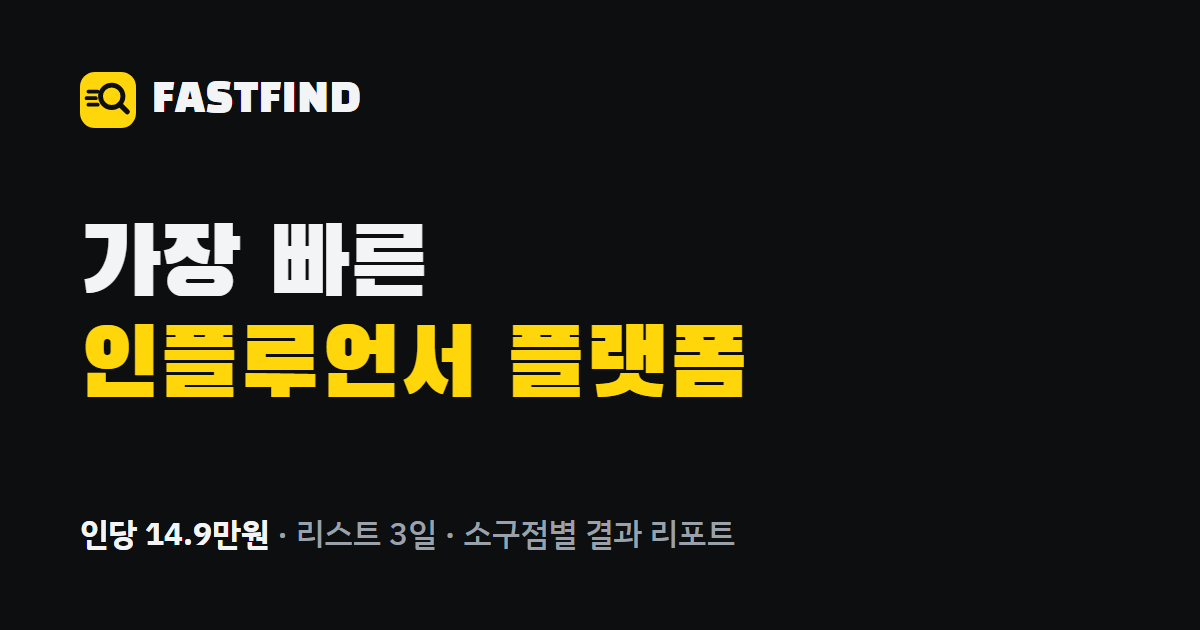
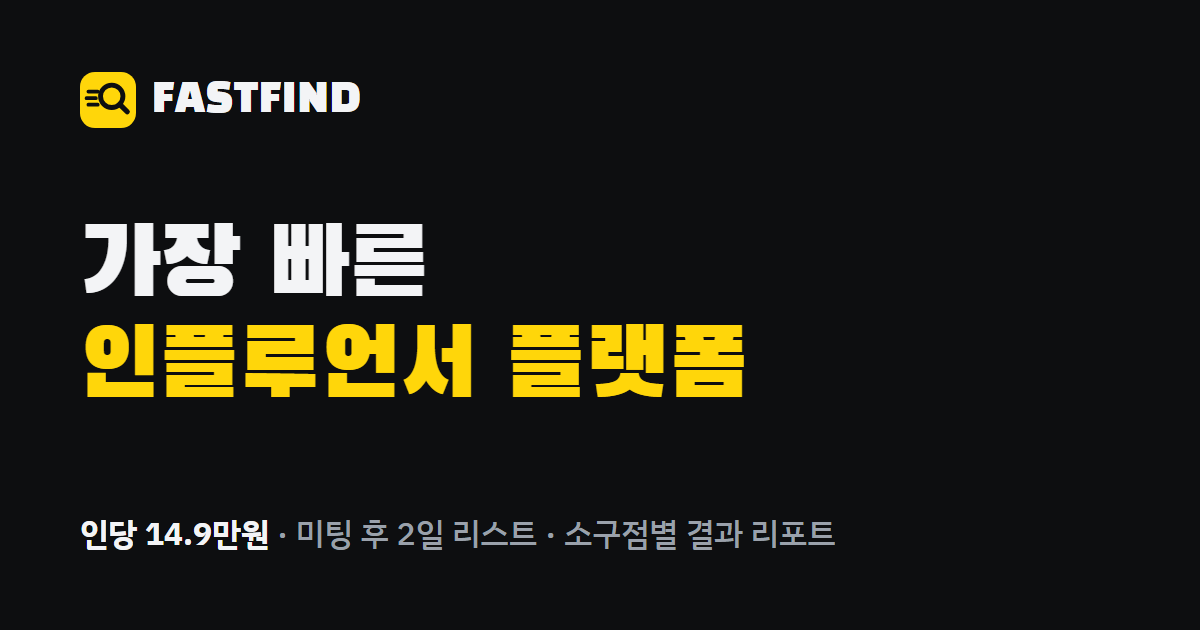
일정 변경: 화상 미팅 후 2일 리스트, 일주일 안에 진행

Changed region(s): [[0.2467, 0.8143, 0.7092, 0.8746]]

diff --git a/index.html b/index.html
@@ -7,7 +7,7 @@
 <meta name="robots" content="noindex, nofollow">
 <meta property="og:type" content="website">
 <meta property="og:title" content="패스트파인드 · 가장 빠른 인플루언서 플랫폼">
-<meta property="og:description" content="가장 빠른 인플루언서 플랫폼. 인당 14.9만원, 3일 안에 리스트, 게시 5일 뒤부터 소구점별 결과 리포트.">
+<meta property="og:description" content="가장 빠른 인플루언서 플랫폼. 인당 14.9만원, 화상 미팅 후 2일 안에 리스트, 일주일 안에 진행, 게시 5일 뒤부터 소구점별 결과 리포트.">
 <meta property="og:image" content="https://jjangga7004-crypto.github.io/fastfind-preview/og.png">
 <meta name="twitter:card" content="summary_large_image">
 <script src="config.js"></script>
@@ -26,7 +26,7 @@
 })();
 </script>
 <title>패스트파인드 · 가장 빠른 인플루언서 플랫폼</title>
-<meta name="description" content="가장 빠른 인플루언서 플랫폼. 인당 14.9만원, 3일 안에 리스트, 게시 5일 뒤부터 소구점별 결과 리포트.">
+<meta name="description" content="가장 빠른 인플루언서 플랫폼. 인당 14.9만원, 화상 미팅 후 2일 안에 리스트, 일주일 안에 진행, 게시 5일 뒤부터 소구점별 결과 리포트.">
 <link rel="preconnect" href="https://fonts.googleapis.com">
 <link rel="preconnect" href="https://fonts.gstatic.com" crossorigin>
 <link rel="stylesheet" href="https://fonts.googleapis.com/css2?family=Black+Han+Sans&family=IBM+Plex+Mono:wght@500;600&family=IBM+Plex+Sans+KR:wght@400;500;600;700&display=swap">
@@ -408,7 +408,7 @@ footer{padding-block:44px 60px;font-size:13.5px;color:var(--muted);border-top:1p
 </head>
 <body>
 <div class="bar">
-  <div class="wrap"><span>인당 <b data-price="match">149,000</b>원 · 리스트 <b>3일</b> · 게시 <b>5일</b> 뒤부터 소구점별 리포트</span><a href="#pricing">가격 보기</a></div>
+  <div class="wrap"><span>인당 <b data-price="match">149,000</b>원 · 미팅 후 <b>2일</b> 리스트 · <b>일주일</b> 안에 진행</span><a href="#pricing">가격 보기</a></div>
 </div>
 
 <header class="top">
@@ -437,7 +437,7 @@ footer{padding-block:44px 60px;font-size:13.5px;color:var(--muted);border-top:1p
       <div>
         <span class="eyebrow">인플루언서 마케팅 좀 해 본 팀을 위한</span>
         <h1>가장 빠른<br><mark>인플루언서 플랫폼</mark></h1>
-        <p class="hero-sub">대행사 쓰는 진짜 이유, 결국 데이터잖아요. <strong>우리 제품을 어떤 말로 소개해야 팔리는지.</strong> 그건 많이, 빨리 뿌려 봐야 보입니다.</p>
+        <p class="hero-sub">대행사 쓰는 진짜 이유, 결국 데이터잖아요. <strong>우리 제품을 어떤 말로 소개해야 팔리는지.</strong> 그건 많이 뿌려서 뭐가 퍼지는지 봐야 보입니다.</p>
         <div class="hero-cta">
           <a href="#start" class="btn btn-signal">캠페인 시작하기</a>
           <a href="#why" class="btn btn-line">왜 많이 뿌려야 하나</a>
@@ -469,7 +469,7 @@ footer{padding-block:44px 60px;font-size:13.5px;color:var(--muted);border-top:1p
             <div class="chips" id="qQuick" role="group" aria-label="자주 쓰는 인원"></div>
           </div>
           <div class="field">
-            <label for="qStart">요청일</label>
+            <label for="qStart">화상 미팅 날짜</label>
             <input type="date" id="qStart" class="date">
           </div>
         </div>
@@ -478,7 +478,7 @@ footer{padding-block:44px 60px;font-size:13.5px;color:var(--muted);border-top:1p
           <p class="qo-meta" id="qMeta"></p>
           <div class="qo-dates">
             <div class="hl"><span id="qListLbl">확정 리스트 도착</span><b id="qList">-</b></div>
-            <div><span>영상 게시</span><b>제품 받고 7일 안</b></div>
+            <div><span>캠페인 진행</span><b id="qRun">-</b></div>
             <div><span>결과 리포트</span><b>게시 5일 뒤부터</b></div>
           </div>
           <button type="submit" class="btn btn-dark">이 조건으로 시작하기</button>
@@ -562,9 +562,9 @@ footer{padding-block:44px 60px;font-size:13.5px;color:var(--muted);border-top:1p
         <h2 class="h2">네 단계만 합니다.<br>단계마다 화면으로 확인하세요</h2>
       </div>
       <div class="tour-tabs" role="tablist" aria-label="진행 단계">
-        <button class="tab" role="tab" id="tab-1" aria-controls="panel-1" aria-selected="true"><span class="t-n">STEP 1 · 3일 이내</span><span class="t-t">맞춤 인플루언서 소싱</span><span class="t-d">확정 명단 또는 후보 리스트</span></button>
+        <button class="tab" role="tab" id="tab-1" aria-controls="panel-1" aria-selected="true"><span class="t-n">STEP 1 · 미팅 후 2일</span><span class="t-t">맞춤 인플루언서 소싱</span><span class="t-d">확정 명단 또는 후보 리스트</span></button>
         <button class="tab" role="tab" id="tab-2" aria-controls="panel-2" aria-selected="false" tabindex="-1"><span class="t-n">STEP 2 · 확정 당일</span><span class="t-t">가이드 전달</span><span class="t-d">소구점 나눠 배정</span></button>
-        <button class="tab" role="tab" id="tab-3" aria-controls="panel-3" aria-selected="false" tabindex="-1"><span class="t-n">STEP 3 · 제품 받고 7일</span><span class="t-t">영상 수합과 게시</span><span class="t-d">링크·원본·PA 코드</span></button>
+        <button class="tab" role="tab" id="tab-3" aria-controls="panel-3" aria-selected="false" tabindex="-1"><span class="t-n">STEP 3 · 일주일 안에 시작</span><span class="t-t">영상 수합과 게시</span><span class="t-d">링크·원본·PA 코드</span></button>
         <button class="tab" role="tab" id="tab-4" aria-controls="panel-4" aria-selected="false" tabindex="-1"><span class="t-n">STEP 4 · 게시 5일 뒤부터</span><span class="t-t">결과 리포트</span><span class="t-d">소구점별 비교·추천 영상</span></button>
       </div>
 
@@ -581,7 +581,7 @@ footer{padding-block:44px 60px;font-size:13.5px;color:var(--muted);border-top:1p
               </div>
               <div class="app-side">
                 <h4>두 가지로 받습니다</h4>
-                <p>패스트 매칭은 저희가 고른 확정 명단이, 직접 선택은 필요 인원의 1.5배 후보가 3일 안에 옵니다.</p>
+                <p>패스트 매칭은 저희가 고른 확정 명단이, 직접 선택은 필요 인원의 1.5배 후보가 화상 미팅 후 2일 안에 옵니다.</p>
                 <ul>
                   <li><svg class="check" viewBox="0 0 24 24" fill="none" stroke="currentColor" stroke-width="3" aria-hidden="true"><path d="M4 12.5l5 5L20 6.5"/></svg>팔로워 500 ~ 3만, 규모 상관없이 같은 가격</li>
                   <li><svg class="check" viewBox="0 0 24 24" fill="none" stroke="currentColor" stroke-width="3" aria-hidden="true"><path d="M4 12.5l5 5L20 6.5"/></svg>광고·품앗이 계정은 이미 빠진 상태</li>
@@ -668,7 +668,7 @@ footer{padding-block:44px 60px;font-size:13.5px;color:var(--muted);border-top:1p
           <p class="who-sel">필터를 통과한 사람 중에서 저희가 골라 확정합니다.</p>
           <p class="amt"><span data-price="match">149,000</span><small>원 / 인</small></p>
           <ul>
-            <li><svg class="check" viewBox="0 0 24 24" fill="none" stroke="currentColor" stroke-width="3" aria-hidden="true"><path d="M4 12.5l5 5L20 6.5"/></svg>확정 명단 3일 안에 도착</li>
+            <li><svg class="check" viewBox="0 0 24 24" fill="none" stroke="currentColor" stroke-width="3" aria-hidden="true"><path d="M4 12.5l5 5L20 6.5"/></svg>미팅 후 2일 안에 확정 명단</li>
             <li><svg class="check" viewBox="0 0 24 24" fill="none" stroke="currentColor" stroke-width="3" aria-hidden="true"><path d="M4 12.5l5 5L20 6.5"/></svg>고르는 데 시간 안 씀</li>
             <li><svg class="check" viewBox="0 0 24 24" fill="none" stroke="currentColor" stroke-width="3" aria-hidden="true"><path d="M4 12.5l5 5L20 6.5"/></svg>소구점 테스트처럼 숫자가 필요할 때</li>
           </ul>
@@ -678,7 +678,7 @@ footer{padding-block:44px 60px;font-size:13.5px;color:var(--muted);border-top:1p
           <p class="who-sel">같은 필터를 통과한 리스트에서 직접 고릅니다.</p>
           <p class="amt"><span data-price="pick">199,000</span><small>원 / 인</small></p>
           <ul>
-            <li><svg class="check" viewBox="0 0 24 24" fill="none" stroke="currentColor" stroke-width="3" aria-hidden="true"><path d="M4 12.5l5 5L20 6.5"/></svg>필요 인원의 1.5배 후보 3일 안에 도착</li>
+            <li><svg class="check" viewBox="0 0 24 24" fill="none" stroke="currentColor" stroke-width="3" aria-hidden="true"><path d="M4 12.5l5 5L20 6.5"/></svg>미팅 후 2일 안에 1.5배 후보</li>
             <li><svg class="check" viewBox="0 0 24 24" fill="none" stroke="currentColor" stroke-width="3" aria-hidden="true"><path d="M4 12.5l5 5L20 6.5"/></svg>마음에 드는 계정만 확정, 교체 요청 1회</li>
             <li><svg class="check" viewBox="0 0 24 24" fill="none" stroke="currentColor" stroke-width="3" aria-hidden="true"><path d="M4 12.5l5 5L20 6.5"/></svg>브랜드 톤이 까다로울 때</li>
           </ul>
@@ -717,7 +717,7 @@ footer{padding-block:44px 60px;font-size:13.5px;color:var(--muted);border-top:1p
           <thead><tr><th scope="col">비교</th><th scope="col" class="us">패스트파인드</th><th scope="col">제작형 대행</th><th scope="col">검색 툴로 직접 운영</th></tr></thead>
           <tbody>
             <tr><th scope="row">비용</th><td class="us">인당 <span data-price="match">149,000</span>원 · 직접 선택 <span data-price="pick">199,000</span>원</td><td>인당 30만원~</td><td>월 구독료 + 인플루언서 비용 별도</td></tr>
-            <tr><th scope="row">리스트 받기까지</th><td class="us">3일 이내</td><td>업체마다 다름</td><td>직접 검색</td></tr>
+            <tr><th scope="row">리스트 받기까지</th><td class="us">화상 미팅 후 2일, 일주일 안에 진행</td><td>업체마다 다름</td><td>직접 검색</td></tr>
             <tr><th scope="row">기획·컨펌</th><td class="us">가이드 한 장</td><td>기획안·대본·초안 단계별</td><td>직접 진행</td></tr>
             <tr><th scope="row">섭외·전달·수합</th><td class="us">대신 합니다</td><td>대신 합니다</td><td>직접 DM과 관리</td></tr>
             <tr><th scope="row">결과 보고</th><td class="us">게시 5일 차 1차, 30일 차 최종 · 소구점별</td><td>업체마다 다름</td><td>툴로 직접 집계</td></tr>
@@ -743,10 +743,11 @@ footer{padding-block:44px 60px;font-size:13.5px;color:var(--muted);border-top:1p
     <div class="wrap start">
       <div>
         <span class="eyebrow">캠페인 시작</span>
-        <h2 class="h2">오늘 요청하면<br><span style="color:var(--signal)">3일 안에 리스트</span>가 옵니다</h2>
+        <h2 class="h2">미팅하고 2일이면 리스트,<br><span style="color:var(--signal)">일주일이면 진행</span>됩니다</h2>
         <p class="lead">리스트까지는 무료예요. 받아 보고 아니다 싶으면 안 하셔도 됩니다.</p>
         <ul class="promise">
-          <li><span class="k">3일 이내</span><span>확정 명단, 또는 1.5배 후보 리스트</span></li>
+          <li><span class="k">미팅 후 2일</span><span>확정 명단, 또는 1.5배 후보 리스트</span></li>
+          <li><span class="k">일주일 안</span><span>인플루언서 확정하고 캠페인 진행</span></li>
           <li><span class="k">확정 전</span><span>취소해도 비용 없음</span></li>
           <li><span class="k">게시 5일 뒤~</span><span>링크, 원본 파일, 소구점별 리포트</span></li>
         </ul>
@@ -755,7 +756,7 @@ footer{padding-block:44px 60px;font-size:13.5px;color:var(--muted);border-top:1p
           <ol>
             <li><b>문자</b><span>접수 확인, 통화 편한 시간 여쭤보기</span></li>
             <li><b>전화</b><span>제품, 타깃, 인원, 시험할 소구점 확인</span></li>
-            <li><b>화상 미팅</b><span>받은 리스트 같이 보고 조건 확정</span></li>
+            <li><b>화상 미팅</b><span>소구점·인원·일정 확정, 2일 뒤 리스트</span></li>
           </ol>
         </div>
       </div>
@@ -815,7 +816,8 @@ const CONFIG = {
     pick:  { name: '직접 선택', price: 199000, listLabel: '후보 리스트 도착', listNote: '필요 인원의 1.5배 후보 리스트를' }
   },
   minPeople: 10,
-  listDays: 3,
+  listDays: 2,             // 화상 미팅 후 리스트까지
+  runDays: 7,              // 화상 미팅 후 캠페인 진행까지
   discounts: [{ min: 100, rate: 0.10 }, { min: 1000, rate: 0.20 }],
   adRights: 20000,         // 원본 영상 2차 활용 6개월, 편당 (리포트 보고 원하는 영상만)
   keepMonths: 6,           // 게시물 유지 기간
@@ -893,6 +895,8 @@ document.getElementById('priceFine').textContent =
     const list = new Date(base); list.setDate(list.getDate() + CONFIG.listDays);
     document.getElementById('qListLbl').textContent = CONFIG.plans[p].listLabel;
     document.getElementById('qList').textContent = fmtDate(list) + '까지';
+    const run = new Date(base); run.setDate(run.getDate() + CONFIG.runDays);
+    document.getElementById('qRun').textContent = fmtDate(run) + '까지';
     quick.querySelectorAll('button').forEach(b => b.setAttribute('aria-pressed', +b.dataset.n === q));
   }
   cats.addEventListener('click', e => {
@@ -1081,8 +1085,8 @@ document.getElementById('priceFine').textContent =
     ['가격', '할인은요?', `${CONFIG.discounts.map(d => `${d.min.toLocaleString('ko-KR')}명부터 ${Math.round(d.rate * 100)}%`).join(', ')} 빠집니다. 최소 ${CONFIG.minPeople}명부터 진행해요.`],
     ['진행', '그 가격에 품질은 괜찮아요?', '광고 계정, 품앗이 계정은 알고리즘으로 먼저 지웁니다. 남은 사람 중에서도 이전 캠페인에서 가이드를 지켰는지, 영상을 성의 있게 찍는지, 제품을 제대로 쓰는지 보고 보냅니다.'],
     ['진행', '소구점은 어떻게 나눠요?', '가이드에 시험해 볼 소구점을 두세 개 적어 주시면 인원을 나눠 배정합니다. 리포트에서 소구점별 조회, 저장률, CPV를 나란히 비교해 드려요.'],
-    ['진행', '요청하면 어떻게 연락이 와요?', '문자로 먼저 접수 확인을 드리고, 편한 시간에 전화로 제품과 인원, 시험할 소구점을 여쭤봅니다. 리스트가 나오면 화상 미팅에서 같이 보고 확정해요.'],
-    ['진행', '리스트는 정말 3일이에요?', '요청일 기준 3일 안에 드립니다. 패스트 매칭은 확정 명단, 직접 선택은 필요 인원의 1.5배 후보예요.'],
+    ['진행', '요청하면 어떻게 연락이 와요?', '문자로 먼저 접수 확인을 드리고, 편한 시간에 전화로 제품과 인원, 시험할 소구점을 여쭤봅니다. 화상 미팅에서 조건을 정하면 2일 안에 리스트를 드리고, 일주일 안에 진행합니다.'],
+    ['진행', '리스트는 언제 와요?', '화상 미팅 후 2일 안에 드립니다. 패스트 매칭은 확정 명단, 직접 선택은 필요 인원의 1.5배 후보예요. 미팅부터 일주일 안에 캠페인이 진행됩니다.'],
     ['진행', '기획안이나 대본 컨펌은요?', '없습니다. 가이드 한 장으로 갑니다. 필수 표기, 금지 표현, 제품 노출처럼 가이드에 적힌 걸 안 지킨 영상만 한 번 수정 요청해요. 톤이나 취향 차이는 수정 대상이 아닙니다.'],
     ['진행', '안 올리면요?', '제품 받은 날부터 7일이 기한이고, 3일 더 기다립니다. 그래도 안 올리면 같은 조건의 다른 사람으로 채우고, 못 채우면 그 인원 비용을 돌려드려요. 제품 원가와 배송비는 빼고요.'],
     ['진행', '제품 발송은 누가 해요?', '확정되면 배송지 시트를 드립니다. 발송은 브랜드에서 하시면 되고, 배송 정보는 캠페인이 끝나면 파기해요.'],
@@ -1147,7 +1151,6 @@ document.getElementById('priceFine').textContent =
     const plan = document.querySelector('input[name="fPlan"]:checked').value;
     const q = Math.max(CONFIG.minPeople, Math.round(+document.getElementById('fQty').value || CONFIG.minPeople));
     const total = Math.round(costFor(plan, q));
-    const list = new Date(); list.setDate(list.getDate() + CONFIG.listDays);
     const val = id => document.getElementById(id).value.trim();
 
     if (RUNTIME.formEndpoint && !val('fWebsite')) {
@@ -1177,9 +1180,9 @@ document.getElementById('priceFine').textContent =
       ['통화 편한 시간', document.getElementById('fTime').value],
       ['인플루언서 수', `${q.toLocaleString('ko-KR')}명`],
       ['예상 금액', `${won(total)}원 (VAT 별도)`],
-      ['리스트 도착', `${fmtDate(list)}까지`]
+      ['다음 단계', '문자 → 전화 → 화상 미팅, 미팅 후 2일 안에 리스트']
     ];
-    document.getElementById('doneMsg').textContent = `곧 문자로 먼저 연락드릴게요. 통화로 조건을 확인하고, 3일 안에 ${CONFIG.plans[plan].listNote} 보내드립니다. 화상 미팅에서 같이 보고 확정해요.`;
+    document.getElementById('doneMsg').textContent = `곧 문자로 먼저 연락드릴게요. 통화와 화상 미팅으로 조건을 정하면 2일 안에 ${CONFIG.plans[plan].listNote} 보내드리고, 일주일 안에 진행합니다.`;
     const dl = document.getElementById('doneDl');
     dl.replaceChildren();
     rows.forEach(([k, v]) => { const dt = document.createElement('dt'), dd = document.createElement('dd'); dt.textContent = k; dd.textContent = v; dl.append(dt, dd); });
